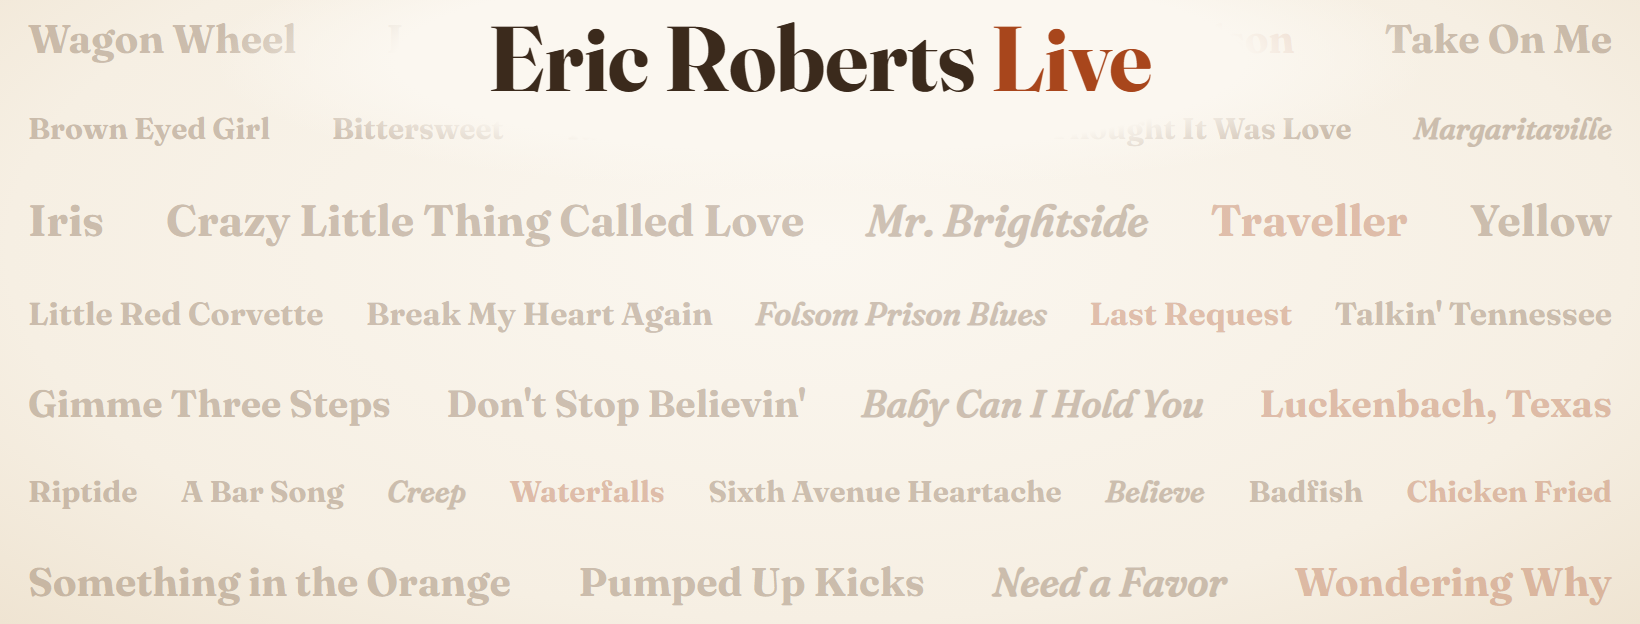
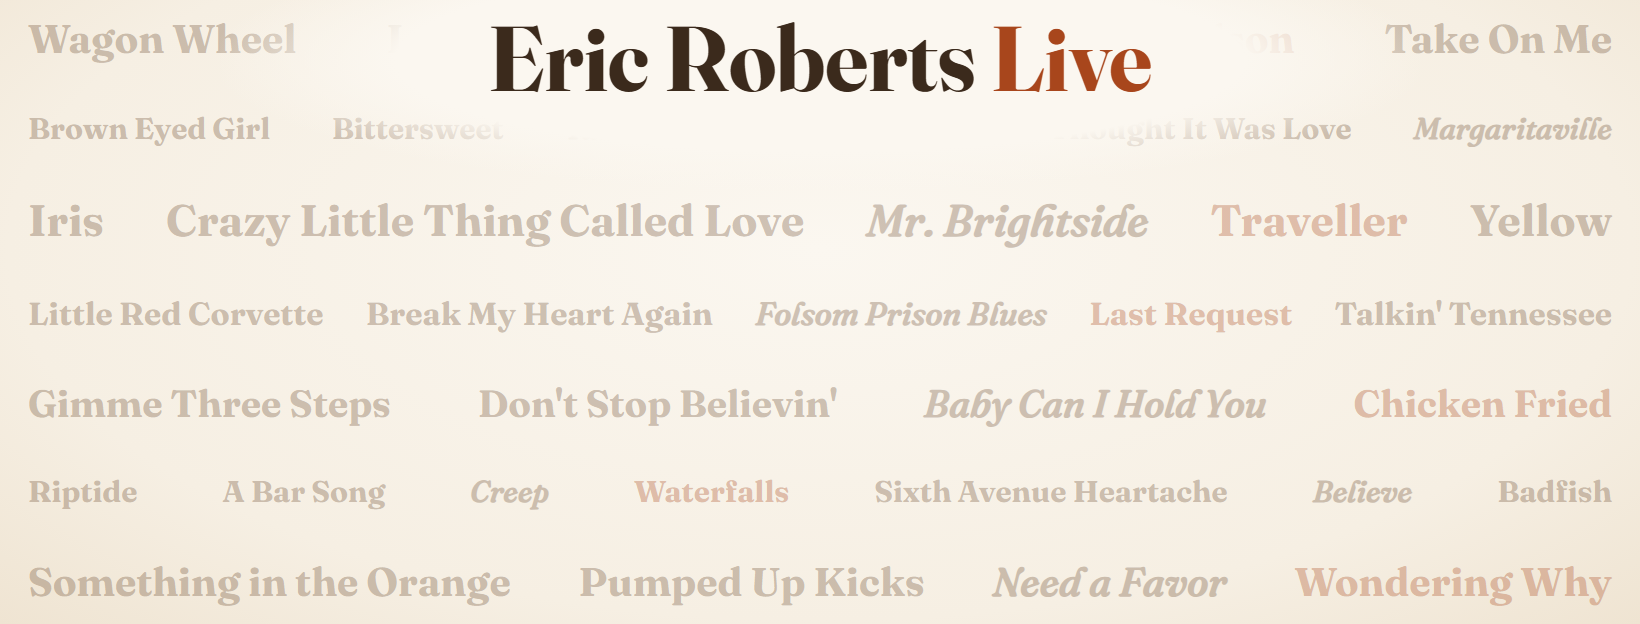
Facebook cover: drop Luckenbach, Texas

Changed region(s): [[0.0933, 0.7612, 0.9951, 0.8221], [0.2488, 0.609, 0.9951, 0.7003]]

diff --git a/social/fb-cover.html b/social/fb-cover.html
@@ -34,8 +34,8 @@
     <div class="row" style="font-size:30px"><span>Brown Eyed Girl</span><span>Bittersweet</span><span>Talk of the Town</span><span>All Yourn</span><span>Thought It Was Love</span><span>Margaritaville</span></div>
     <div class="row" style="font-size:44px"><span>Iris</span><span>Crazy Little Thing Called Love</span><span>Mr. Brightside</span><span>Traveller</span><span>Yellow</span></div>
     <div class="row" style="font-size:32px"><span>Little Red Corvette</span><span>Break My Heart Again</span><span>Folsom Prison Blues</span><span>Last Request</span><span>Talkin' Tennessee</span></div>
-    <div class="row" style="font-size:38px"><span>Gimme Three Steps</span><span>Don't Stop Believin'</span><span>Baby Can I Hold You</span><span>Luckenbach, Texas</span></div>
-    <div class="row" style="font-size:30px"><span>Riptide</span><span>A Bar Song</span><span>Creep</span><span>Waterfalls</span><span>Sixth Avenue Heartache</span><span>Believe</span><span>Badfish</span><span>Chicken Fried</span></div>
+    <div class="row" style="font-size:38px"><span>Gimme Three Steps</span><span>Don't Stop Believin'</span><span>Baby Can I Hold You</span><span>Chicken Fried</span></div>
+    <div class="row" style="font-size:30px"><span>Riptide</span><span>A Bar Song</span><span>Creep</span><span>Waterfalls</span><span>Sixth Avenue Heartache</span><span>Believe</span><span>Badfish</span></div>
     <div class="row" style="font-size:40px"><span>Something in the Orange</span><span>Pumped Up Kicks</span><span>Need a Favor</span><span>Wondering Why</span></div>
   </div>
   <div class="glow"></div>
